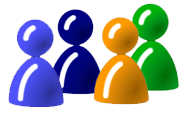
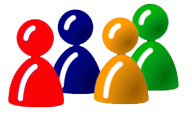
#Pionek czerwony + Update kodu

Changed region(s): [[0.0312, 0.1185, 0.3438, 0.8]]

diff --git a/Monopoly/Monopoly/game.cpp b/Monopoly/Monopoly/game.cpp
@@ -27,10 +27,20 @@ Game::Game(void) : window(VideoMode(1100, 700, 32), "", Style::None)
 		return;
 	if ((!frame.loadFromFile("graphics/frame.png")) || (!frame_active.loadFromFile("graphics/frame_active.png")))
 		return;
+	vector<Texture> pawn(4);
+	if ((!pawn[1].loadFromFile("graphics/yellow.png")) || (!pawn[2].loadFromFile("graphics/green.png")))
+		return;
+	if ((!pawn[3].loadFromFile("graphics/red.png")) || (!pawn[0].loadFromFile("graphics/blue.png")))
+		return;
+	for (int i = 0; i < pawn.size(); ++i)
+	{
+		pawn[i].setSmooth(true);
+		pawns.emplace_back(pawn[i]);
+	}
 
 	if ((!font.loadFromFile("font/font.ttf")) || (!font_menus.loadFromFile("font/kawoszeh.ttf")))
 		return;
-
+	
 	state = GameState::MODE_MENU;
 }
 
@@ -102,7 +112,7 @@ void Game::ModeMenu()
 	ButtonText* hoverButton_text = nullptr;
 
 	Text title(L"Wybierz tryb gry:", font_menus, 65);
-	title.setPosition((1100 / 2 - title.getGlobalBounds().width / 2), 300);
+	title.setPosition((float)(1100 / 2 - title.getGlobalBounds().width / 2), 300.0f);
 	title.setColor(Color::Black);
 		
 	while (state == GameState::MODE_MENU)
@@ -145,30 +155,23 @@ void Game::ModeMenu()
 		window.draw(bg);
 		window.draw(title);
 		for (auto &button : buttons)
-		{
-			if (button.IsVisible())
-				window.draw(button.GetText());
-		}
+			window.draw(button.GetText());
 		window.display();
 	}
 }
 
 
-/*
-Istotnych zmian dokonałem tylko w tej metodzie
-*/
 void Game::MainMenu()
 {
 	bg.setTexture(bg_monopoly_logo);
 
-	//Przechowuję wszystkie przyciski w wektorze zamiast po prostu dla uproszczenia
 	vector<ButtonText> text_buttons;
-	text_buttons.emplace_back(L"Kontynuuj grę", font_menus, 45, 350, GameState::END, !GetGameMode()); //ma Pan tam zakomentowany stan CONTINUE, a musze jakis ustawic
-	text_buttons.emplace_back(L"Nowa gra", font_menus, 45, 400, GameState::PLAYERS_MENU);
-	text_buttons.emplace_back(L"Powrót", font_menus, 45, 450, GameState::MODE_MENU);
-	text_buttons.emplace_back(L"Wyjdź z gry", font_menus, 45, 500, GameState::END);
+	if (!game_mode)
+		text_buttons.emplace_back(L"Kontynuuj grę", font_menus, 45, 350, GameState::END); // Dorobić CONTINUE
+	text_buttons.emplace_back(L"Nowa gra", font_menus, 45, 410, GameState::PLAYERS_MENU);
+	text_buttons.emplace_back(L"Powrót", font_menus, 45, 470, GameState::MODE_MENU);
+	text_buttons.emplace_back(L"Wyjdź z gry", font_menus, 45, 530, GameState::END);
 
-	//ten wskaźnik zapamiętuje, który przycisk jest aktualnie aktywny, jak się najedzie myszką to ten wskaźnik jest odpowiednio umieszczany (kod nizej)
 	ButtonText* hoverButton_text = nullptr;
 
 	fstream save_file;
@@ -177,9 +180,7 @@ void Game::MainMenu()
 	while (state == GameState::MAIN_MENU)
 	{		
 		Vector2f mouse(Mouse::getPosition(window));
-		//w kazdej iteracji najpierw ustawiam ten wskaznik na nullptr bo zakladam ze zaden przycisk nie jest zaznaczony
 		hoverButton_text = nullptr;
-		//przechodze przez wszystkie przyciski i sprawdzam czy mysz jest na jakims. Jeśli tak to ustawiam mu odpowiedni styl oraz zapamiętuje sobie we wskaźniku który to był
 		for (auto& button : text_buttons)
 		if (button.GetText().getGlobalBounds().contains(mouse))
 		{
@@ -194,7 +195,6 @@ void Game::MainMenu()
 		}
 
 		Event event;
-		//teraz obsługa eventów się bardzo uprościła
 		while (window.pollEvent(event))
 		{
 			if (event.type == Event::KeyPressed && event.key.code == Keyboard::Escape)
@@ -203,18 +203,16 @@ void Game::MainMenu()
 				break;
 			}
 
-			if (event.type == Event::MouseButtonReleased && event.key.code == Mouse::Left && hoverButton_text)//tutaj tylko sobie sprawdzam, czy któryś z przycisków jest aktywny w momencie kliknięcia myszy
+			if (event.type == Event::MouseButtonReleased && event.key.code == Mouse::Left && hoverButton_text)
 			{
-				state = hoverButton_text->GetState(); //no i jesli jest to ustawiam stan na taki jaki jest zapamietany w tym przycisku
+				state = hoverButton_text->GetState();
 				break;
 			}		
 		}
 		window.clear();
 		window.draw(bg);
-		//tutaj wyswietlam te przyciski, które powinny być widoczne
 		for (auto& button : text_buttons)
-			if(button.IsVisible())
-				window.draw(button.GetText());	
+			window.draw(button.GetText());	
 		window.display();
 		
 	}
@@ -226,7 +224,7 @@ void Game::PlayersMenu()
 	bg.setTexture(bg_monopoly_logo);
 
 	Text title(L"Wybierz liczbę graczy:", font_menus, 65);
-	title.setPosition((1100 / 2 - title.getGlobalBounds().width / 2), 300);
+	title.setPosition((float)(1100 / 2 - title.getGlobalBounds().width / 2), 300.0f);
 	title.setColor(Color::Black);
 
 	vector<ButtonText> text_buttons;
@@ -301,15 +299,10 @@ void Game::PlayersMenu()
 		window.draw(bg);
 		window.draw(title);
 		for (auto& button : text_buttons)
-		{
-			if (button.IsVisible())
-				window.draw(button.GetText());
-		}
+			window.draw(button.GetText());
 		for (auto& button : img_buttons)
-		{
 			if (button.IsVisible())
 				window.draw(button.GetSprite());
-		}
 		window.display();
 	}
 }
@@ -323,12 +316,16 @@ void Game::SetNames()
 	title.setColor(Color::Black);
 	vector<Text> players;
 	vector<Frame> frames;
+	vector<Sprite> pawn;
 	for (int i = 1; i <= GetPlayers(); ++i)
 	{
 		players.emplace_back(L"Player " + to_string(i) + ":", font_menus, 40);
 		players[i - 1].setPosition((float)((1100 / 2 - title.getGlobalBounds().width / 2) + 15), (float)(380 + (i - 1) * 55));
 		players[i - 1].setColor(Color::Black);
 		frames.emplace_back(make_pair(frame, frame_active), 445, 380 + (i - 1) * 55, "", font_menus, 30);
+		pawn.emplace_back();
+		pawn[i - 1].setTexture(pawns[i-1]);
+		pawn[i - 1].setPosition((float)((1100 / 2 - title.getGlobalBounds().width / 2) - 20), (float)(380 + (i - 1) * 55));
 	}
 	for (auto& frame : frames)
 		frame.GetSprite().setTexture(frame.GetTexture().first);
@@ -405,7 +402,7 @@ void Game::SetNames()
 							frame.TurnActive(false);
 							frame.GetSprite().setTexture(frame.GetTexture().first);
 						}
-						else if (event.text.unicode > 31 && event.text.unicode < 128 && frame.GetString().size() < 15)
+						else if (event.text.unicode > 31 && event.text.unicode < 123 && frame.GetString().size() < 15)
 						{
 							frame.GetString().push_back((char)event.text.unicode);
 							frame.SetText(frame.GetString());
@@ -418,14 +415,13 @@ void Game::SetNames()
 		window.draw(bg);
 		window.draw(title);
 		for (auto& player : players)
-		{
 			window.draw(player);
-		}
+
+		for (auto& elem : pawn)
+			window.draw(elem);
+
 		for (auto& button : text_buttons)
-		{
-			if (button.IsVisible())
-				window.draw(button.GetText());
-		}
+			window.draw(button.GetText());
 		for (auto& frame : frames)
 		{
 			window.draw(frame.GetSprite());

diff --git a/Monopoly/Monopoly/buttontext.h b/Monopoly/Monopoly/buttontext.h
@@ -6,21 +6,18 @@ class ButtonText
 {
 	sf::Text button_text;
 	GameState state;
-	bool visible;
 public:
-	ButtonText(const sf::String& text, const sf::Font& font, unsigned int characterSize, float y, GameState state, bool visibility = true)
+	ButtonText(const sf::String& text, const sf::Font& font, unsigned int characterSize, float y, GameState state)
 		:
 		button_text(text, font, characterSize),
-		state(state),
-		visible(visibility)
+		state(state)
 	{
 		button_text.setPosition((1100 / 2 - button_text.getGlobalBounds().width / 2), y);
 	}
-	ButtonText(const sf::String& text, const sf::Font& font, unsigned int characterSize, float x, float y, GameState state, bool visibility = true)
+	ButtonText(const sf::String& text, const sf::Font& font, unsigned int characterSize, float x, float y, GameState state)
 		:
 		button_text(text, font, characterSize),
-		state(state),
-		visible(visibility)
+		state(state)
 	{
 		button_text.setPosition(x, y);
 	}
@@ -31,9 +28,5 @@ public:
 	GameState GetState() const
 	{
 		return state;
-	}
-	bool IsVisible() const
-	{
-		return visible;
 	}
 };

diff --git a/Monopoly/Monopoly/game.h b/Monopoly/Monopoly/game.h
@@ -10,6 +10,7 @@ class Game
 	sf::Texture bg_monopoly_logo, game_board;
 	sf::Texture two_players, three_players, four_players, two_players2, three_players2, four_players2;
 	sf::Texture frame, frame_active;
+	std::vector<sf::Texture> pawns;
 	sf::Sprite bg;
 	sf::Font font, font_menus;
 	bool game_mode; // "true" when game is online
